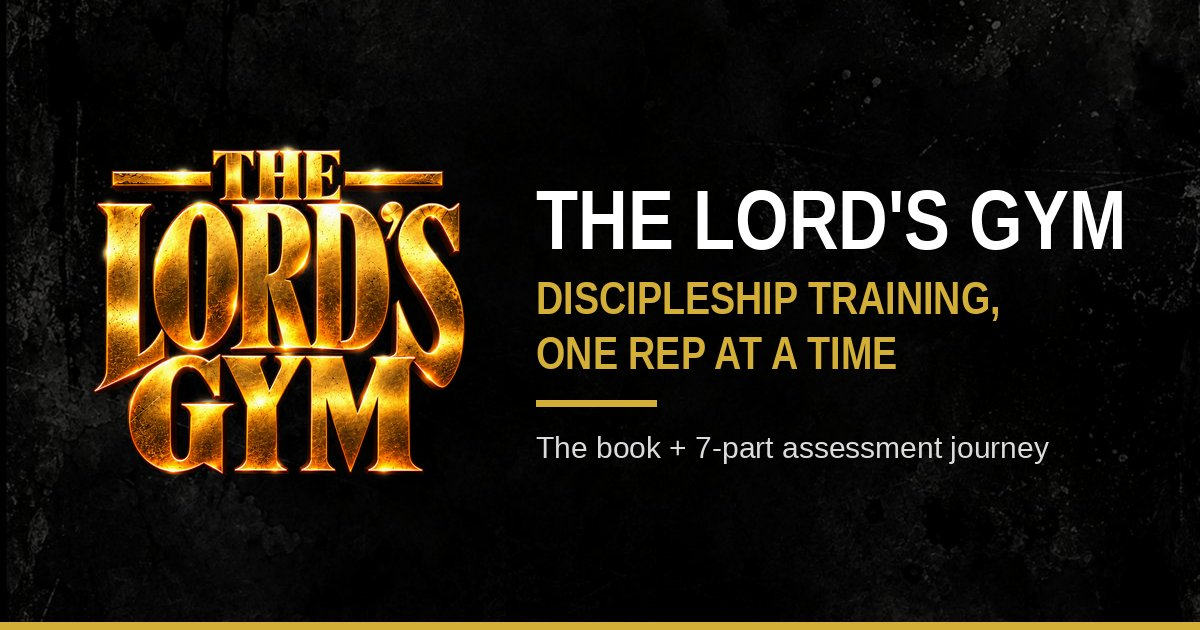
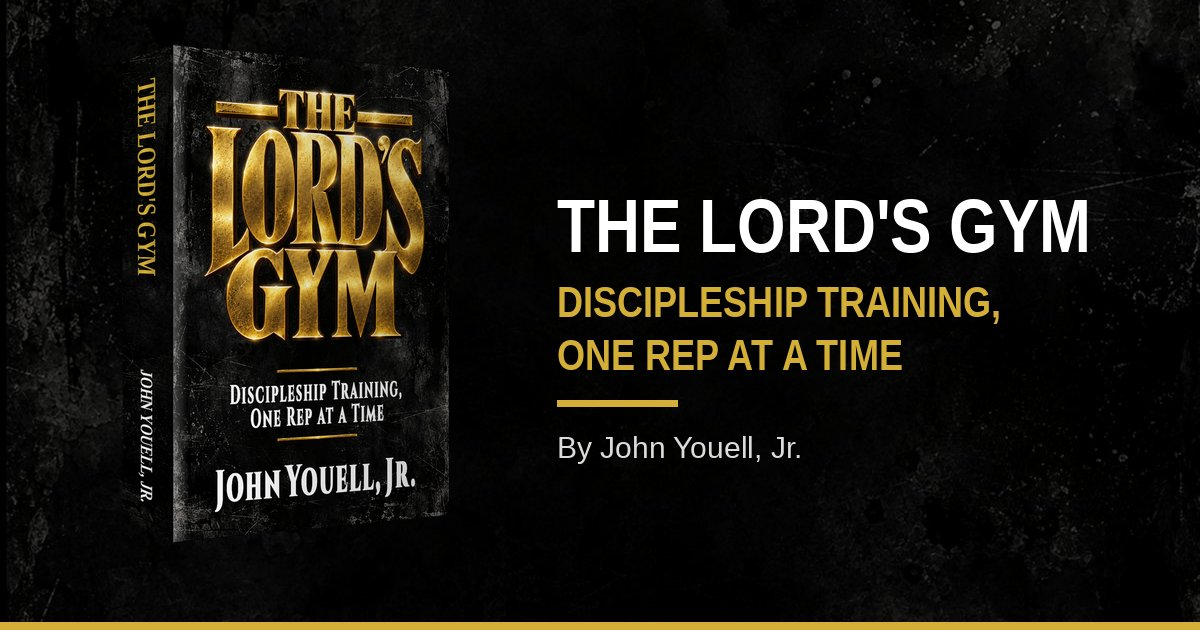
I have added a 3D book cover that is displayed as an angled book with a simulated spine. The spine features "THE LORD'S GYM" in gold and "JOHN YOUELL, JR." in white on a dark textured strip, accompanied by a soft shadow under the book. The /book page shows the 3D book replacing the emblem placeholde
Please note, since your cover file does not include a spine, I used a similar bold serif font for the spine text, which is close to but may not exactly match the font on your cover.

Could you please review these updates and let me know if they meet your expectations or if you would like me to explore further adjustments? Your feedback will help ensure the presentation aligns with your vision.

Next Action Items:
- **Book on Welcome**: Show the 3D book in the Read the Book box on the Welcome page so visitors see it right away
- **Back Cover Blurb**: Add your back-cover description and endorsements to the /book page to help friends decide to buy

Emergent-Commit-Key: 274ce2f12fc74884de05e3929739607e7785397715a60b425710d41bbf2fd215

diff --git a/frontend/src/pages/BookPage.jsx b/frontend/src/pages/BookPage.jsx
@@ -10,7 +10,7 @@ export default function BookPage() {
   return (
     <div className="mx-auto grid max-w-6xl items-center gap-12 px-5 py-16 sm:px-8 md:grid-cols-12 lg:py-24" data-testid="book-page">
       <motion.img initial={{ opacity: 0, y: 16 }} animate={{ opacity: 1, y: 0 }} transition={{ duration: 0.5 }}
-        src="/book-cover-placeholder.png" alt="The Lord's Gym book cover" className="mx-auto w-56 drop-shadow-[0_20px_40px_rgba(212,175,55,0.25)] sm:w-72 md:col-span-5" data-testid="book-cover" />
+        src="/book-3d.webp" alt="The Lord's Gym book by John Youell, Jr." className="mx-auto w-60 sm:w-80 md:col-span-5 lg:w-96" data-testid="book-cover" />
       <div className="md:col-span-7">
         <p className="eyebrow">The Book</p>
         <h1 className="mt-3 font-heading text-4xl font-bold uppercase leading-[0.95] text-white sm:text-5xl lg:text-6xl" data-testid="book-title">

diff --git a/memory/PRD.md b/memory/PRD.md
@@ -37,6 +37,7 @@ Readers of the book working through the discipleship assessments; small-group le
 - 2026-10-17 Chapter Reviews removed (they live in the book, not in the 7 Reps). The app is now just the 7 Reps: A1 is free; A2–A6 open all at once for All-Access users; A7 opens after A2–A6. The /chapter/:n pages are gone, and the videos are now 5 Section Review wrap-ups (admin keys section_2..section_6) shown on each section result page with Spread the Word. Spread the Word and Join the Conversation also appear on /congrats/initial. The Chapter Reviews list was removed from Master Results.
 - 2026-10-17 Book & Sharing admin (/admin/sharing; GET /api/sharing public, PUT /api/admin/sharing admin-only): book_url (blank for now), email subject and Spread the Word message. When the link is set, Welcome box 02 gets a "here" link and the share message ends with "Get the book: <url>" (no sign-up link). /spread-the-word offers Email, Text/SMS and Copy Message.
 - 2026-10-17 Share preview card: public /book page (gold emblem placeholder cover at /book-cover-placeholder.png, description, Get the Book button using the admin book_url or "Purchase link coming soon"). index.html has Open Graph/Twitter tags (title, description, 1200x630 /og-image.jpg, URLs from %REACT_APP_BACKEND_URL%). The Spread the Word message now always ends with "Get the book: <site>/book". User confirmed the Chapter Reviews stay removed (the original brief is reference only).
+- 2026-10-17 Real book cover (https://i.ibb.co/WNw6LK8s/TLG-Book-Cover.jpg, saved as public/book-cover.jpg) rendered as an angled 3D book with a simulated spine (gold "THE LORD'S GYM", white "JOHN YOUELL, JR.") at public/book-3d.webp, used on /book. og-image.jpg regenerated with the 3D book and "By John Youell, Jr."
 
 ## Assumptions
 - A1's overall total uses the same /125 total tiers as A7
